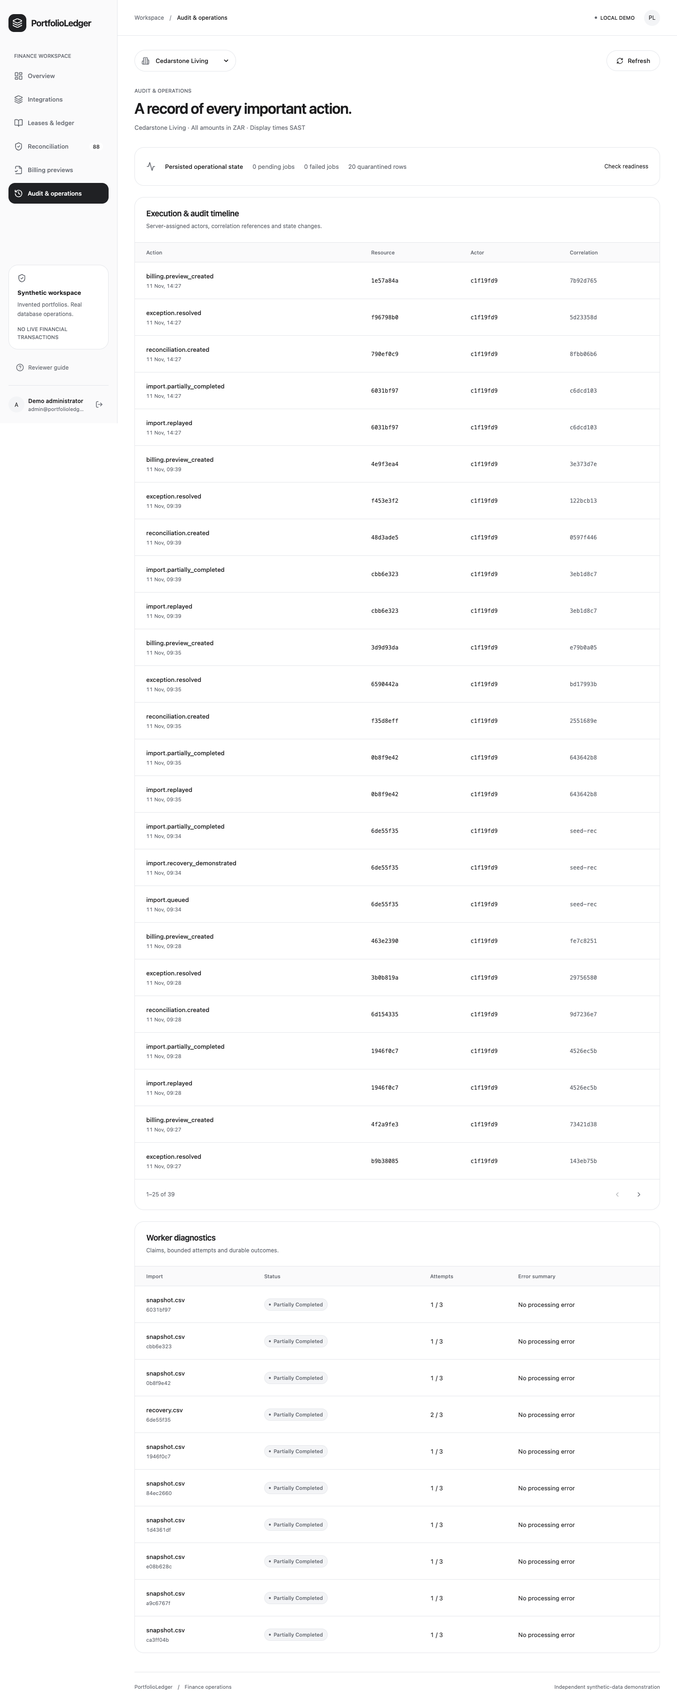
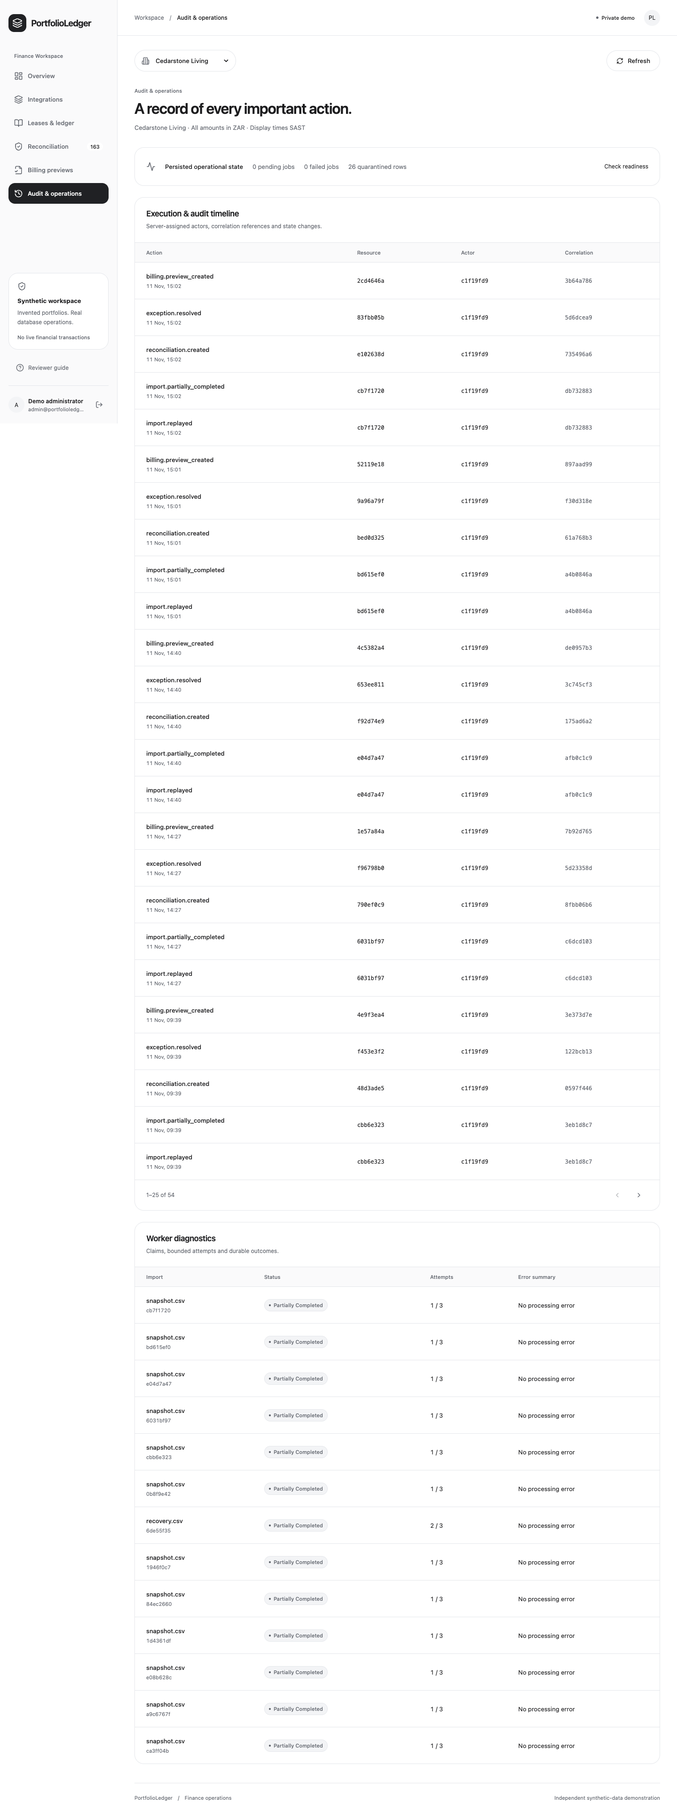
Close ownership and readiness gaps; record final release verification

diff --git a/frontend/tests/public-review.public.ts b/frontend/tests/public-review.public.ts
@@ -7,10 +7,13 @@ async function closeWithEscape(page: import("@playwright/test").Page) {
   await expect(page.getByRole("dialog")).toHaveCount(0);
 }
 
+test.use({ viewport: { width: 1440, height: 900 } });
+
 test("public reviewer browses evidence and CSV with all direct business writes denied", async ({
   page,
 }) => {
   await page.goto("/");
+  expect((await page.request.get("/ready")).status()).toBe(200);
   await page.getByRole("button", { name: "Explore read-only demo" }).click();
   await expect(page.getByLabel("Select portfolio")).toBeVisible();
   const portfolios = await page.request.get("/api/portfolios");
@@ -100,6 +103,19 @@ test("public reviewer browses evidence and CSV with all direct business writes d
   await expect(
     page.getByRole("heading", { name: "Execution & audit timeline" }),
   ).toBeVisible();
+  await expect(
+    page.getByRole("button", { name: "Refresh", exact: true }),
+  ).toBeEnabled();
+  await expect(
+    page
+      .locator(".panel")
+      .filter({
+        has: page.getByRole("heading", { name: "Execution & audit timeline" }),
+      })
+      .locator("tbody tr")
+      .first(),
+  ).toBeVisible();
+  await page.evaluate(() => window.scrollTo(0, 0));
   await page.screenshot({
     path: "../docs/evidence/ui/after/public-review-audit.png",
     fullPage: true,

diff --git a/frontend/tests/journey.spec.ts b/frontend/tests/journey.spec.ts
@@ -76,6 +76,12 @@ test("reviewer completes persisted import, evidence, review and billing journey"
   await expect(page.locator("tbody").first()).toContainText(
     "billing.preview_created",
   );
+  await page.getByRole("button", { name: "Check readiness" }).click();
+  await expect(
+    page.getByRole("dialog", { name: "Readiness check" }),
+  ).toContainText("Database ready");
+  await expect(page.getByRole("dialog")).toContainText("b003");
+  await page.getByRole("button", { name: "Close dialog" }).click();
   await page
     .getByLabel("Select portfolio")
     .selectOption({ label: "Harbourlight Estates" });

diff --git a/frontend/src/styles.css b/frontend/src/styles.css
@@ -141,6 +141,7 @@ nav {
   gap: 6px;
 }
 nav button {
+  transition: none;
   display: flex;
   align-items: center;
   text-align: left;

diff --git a/backend/tests/test_release.py b/backend/tests/test_release.py
@@ -257,7 +257,9 @@ def test_production_configuration_and_owner_readiness(client: TestClient, monkey
         public_review_enabled=True,
         public_demo_read_only=True,
     )
-    assert Settings(_env_file=None, **valid).cookie_secure
+    valid_settings = Settings(_env_file=None, **valid)
+    assert valid_settings.cookie_secure
+    assert "synthetic-test-password-only" not in repr(valid_settings)
     for change in [
         dict(cookie_secure=False),
         dict(allowed_origins=["http://demo.example.invalid"]),
@@ -384,7 +386,12 @@ def test_separate_runtime_roles_complete_financial_journey(
             )
             monkeypatch.setattr(settings, "app_env", "production")
             assert client.get("/ready").status_code == 200
+            with owner.begin() as connection:
+                connection.execute(text(f'ALTER SCHEMA "{schema}" OWNER TO "{api_role}"'))
+            assert client.get("/ready").status_code == 503
     finally:
+        with owner.begin() as connection:
+            connection.execute(text(f'ALTER SCHEMA "{schema}" OWNER TO CURRENT_USER'))
         for engine in engines:
             engine.dispose()
         with owner.begin() as connection:
@@ -408,3 +415,37 @@ def test_public_scope_rechecked_after_session(
         portfolio.synthetic_demo = False
     assert client.get("/api/portfolios").json() == []
     assert client.get(f"/api/portfolios/{demo['a']}/overview").status_code == 404
+
+
+def test_runtime_grants_reject_schema_owner(
+    factory: sessionmaker[Session], demo: dict[str, Any]
+) -> None:
+    from uuid import uuid4
+
+    import pytest
+
+    from app.operations.roles import grant_runtime
+
+    api_role, worker_role = "test_api_" + uuid4().hex, "test_worker_" + uuid4().hex
+    engine = factory.kw["bind"]
+    with engine.begin() as connection:
+        schema = connection.scalar(text("SELECT current_schema()"))
+        for role in (api_role, worker_role):
+            connection.execute(
+                text(
+                    f'CREATE ROLE "{role}" NOLOGIN NOSUPERUSER NOCREATEDB NOCREATEROLE NOINHERIT NOBYPASSRLS'
+                )
+            )
+        connection.execute(text(f'ALTER SCHEMA "{schema}" OWNER TO "{api_role}"'))
+    try:
+        with (
+            pytest.raises(ValueError, match="own the database or schema"),
+            engine.begin() as connection,
+        ):
+            grant_runtime(connection.connection.driver_connection, schema, api_role, worker_role)
+    finally:
+        with engine.begin() as connection:
+            connection.execute(text(f'ALTER SCHEMA "{schema}" OWNER TO CURRENT_USER'))
+            for role in (api_role, worker_role):
+                connection.execute(text(f'DROP OWNED BY "{role}"'))
+                connection.execute(text(f'DROP ROLE "{role}"'))

diff --git a/backend/app/core/config.py b/backend/app/core/config.py
@@ -3,22 +3,26 @@ from pathlib import Path
 from typing import Literal, Self
 from urllib.parse import urlsplit
 
-from pydantic import model_validator
+from pydantic import Field, model_validator
 from pydantic_settings import BaseSettings, SettingsConfigDict
 from sqlalchemy.engine import make_url
 
 
 class Settings(BaseSettings):
     model_config = SettingsConfigDict(
-        env_file=Path(__file__).resolve().parents[3] / ".env", extra="ignore"
+        env_file=Path(__file__).resolve().parents[3] / ".env",
+        extra="ignore",
+        hide_input_in_errors=True,
     )
-    database_url: str = "postgresql+psycopg://ledger:ledger_local@localhost:5438/ledger"
+    database_url: str = Field(
+        default="postgresql+psycopg://ledger:ledger_local@localhost:5438/ledger", repr=False
+    )
     app_env: Literal["development", "test", "production"] = "development"
     cookie_secure: bool = False
     allowed_origins: list[str] = ["http://localhost:5173", "http://127.0.0.1:5173"]
     allowed_hosts: list[str] = ["localhost", "127.0.0.1", "testserver"]
     trusted_proxy_ips: list[str] = []
-    demo_password: str = ""
+    demo_password: str = Field(default="", repr=False)
     public_review_enabled: bool = False
     public_demo_read_only: bool = False
     seed_synthetic_demo: bool = False
@@ -55,6 +59,8 @@ class Settings(BaseSettings):
                 raise ValueError("unbounded proxy trust forbidden")
         if (
             url.get_backend_name() != "postgresql"
+            or not url.username
+            or not url.host
             or not url.password
             or len(url.password) < 20
             or url.username in {"ledger", "postgres"}

diff --git a/backend/app/main.py b/backend/app/main.py
@@ -223,7 +223,12 @@ def ready(db: Session = Depends(get_db, scope="function")) -> dict[str, str]:
                 "SELECT count(*) FROM pg_tables WHERE schemaname = current_schema() AND pg_has_role(current_user, tableowner, 'MEMBER')"
             )
         )
-        if privileged or owner:
+        namespace_owner = db.scalar(
+            text(
+                "SELECT pg_has_role(current_user, nspowner, 'MEMBER') OR pg_has_role(current_user, datdba, 'MEMBER') FROM pg_namespace CROSS JOIN pg_database WHERE nspname=current_schema() AND datname=current_database()"
+            )
+        )
+        if privileged or owner or namespace_owner:
             raise HTTPException(503, "runtime_role_is_privileged")
     return {"status": "ready", "schema": ",".join(sorted(versions))}
 

diff --git a/backend/app/operations/roles.py b/backend/app/operations/roles.py
@@ -47,6 +47,12 @@ def grant_runtime(
         ).fetchone()
         if membership and membership[0] != 0:
             raise ValueError("runtime roles must not inherit other roles")
+        ownership = connection.execute(
+            "SELECT pg_has_role(%s, nspowner, 'MEMBER') OR pg_has_role(%s, datdba, 'MEMBER') FROM pg_namespace CROSS JOIN pg_database WHERE nspname=%s AND datname=current_database()",
+            (role, role, schema),
+        ).fetchone()
+        if ownership is None or ownership[0]:
+            raise ValueError("runtime roles must not own the database or schema")
         owners = connection.execute(
             "SELECT count(*) FROM pg_tables WHERE schemaname=%s AND tableowner=%s", (schema, role)
         ).fetchone()

diff --git a/docs/engineering-journal.md b/docs/engineering-journal.md
@@ -121,3 +121,33 @@ Public Chrome case first timed out because Escape fired before asynchronous repo
 ## 2026-11-11 12:54:28 UTC — Public reviewer accepted
 
 Third public-test rerun reached Audit and found a test-only heading typo (omitted ampersand in existing Execution & audit timeline). Corrected locator without changing product copy/assertions. Final public Chrome case: 1 passed in 4.2s (2.5s case). Password-free reviewer inspected reports, ledger source evidence, exceptions, preview CSV and audit; direct upload/replay/reconciliation/review/preview calls all 403. Business-ID/ledger comparison unchanged; sanitized public-review.json and credential-free public-review-audit screenshot saved. Production Nginx configuration tested inside actual non-root image: syntax successful (entrypoint read-only-config notice expected). Final candidate credential scan passed. Saving implementation increment before restart/final evidence increment.
+
+## 2026-11-11 12:58:27 UTC — Restart accepted; final ownership regression
+
+Implementation increment committed as 7ed81c6. Complete Compose down/up (no volume removal) passed exact-ID/ledger comparison: 9 postings, 3 leases, 8 previews/15 lines, 48 audits, 119 exceptions, 12 jobs; ZAR 19,500.00. Sanitized persistence-release.json saved.
+
+Final privilege review identified schema ownership as a second DDL bypass path despite non-ownership of individual tables. Added reproducer: 1 failed in 0.50s (expected owner-rejection exception did not occur). Role setup and production readiness now check database/schema ownership and membership as well as table ownership/role flags. Existing separate-role financial journey now also asserts readiness becomes 503 if runtime role is temporarily assigned schema ownership, then restores ownership in test cleanup. Configuration repr/errors now redact secret fields and production rejects socket/unnamed DB identities. Full suite/static rerun pending. No finance/schema/worker logic changed in this correction.
+
+## 2026-11-11 12:59:20 UTC — Ownership correction green
+
+Full PostgreSQL suite: 41 passed / 35.88s / 85% / one upstream warning. Schema-owner reproducer now passes, ordinary separate-runtime financial journey stays green, production readiness rejects schema ownership. All static/type/build/style checks pass. No finance logic, source identity, worker processing or Alembic schema changed after the accepted 10k run; no benchmark rerun asserted. Final images rebuilding before browser/capture verification.
+
+## 2026-11-11 13:02:58 UTC — Final visual/accessibility correction
+
+Public case rerun against final rebuilt backend: 1 passed in 5.5s; stricter screenshot waits now require the real audit rows loaded and scroll to page top. Manual review had caught an earlier public capture before audit data finished loading; replacement is required, not claimed accepted.
+
+Private final browser rerun: 5 passed / 1 failed, 19.0s. Axe caught Integrations navigation at intermediate transition colors (contrast 1.12/2.23 while text/background swapped). Removed only navigation color transitions so selected background/text switch together; unchanged axe assertions and full journey rerunning. This is a genuine transient style defect, not a reason to disable contrast checking or introduce test sleeps.
+
+## 2026-11-11 13:07:13 UTC — Final local acceptance and reviewed captures
+
+D023 corrected: full private Chrome suite 6 passed in 19.2s; unchanged axe contrast checks pass login and all six operational views, responsive 36 combinations and all finance assertions retained. Final public Chrome 1 passed in 4.2s; exact business-ID/ledger comparison unchanged (9 postings, 3 leases, 10 previews/19 lines, 58 audits, 173 exceptions, 14 jobs, ZAR 19,500.00). Private runs legitimately added review/import/preview history between public/restart measurement boundaries; no data reset. Returned stack to private mode.
+
+Final screenshot helper initially captured images but failed logout because standalone browser request context lacked a base URL. Added explicit loopback base URL and finally-close; complete rerun exited 0 (Captured after synthetic UI screenshots), including session revocation. Refreshed all six screens plus login, ledger, source modal, tablet/mobile. Actually viewed final overview/mobile/tablet/login/integrations/leases/modal/reconciliation/billing and public Audit; all neutral/rounded/legible, no clipped document or credentials. Public Audit now contains actual loaded rows and sidebar starts at top; screenshots accepted.
+
+Final static/type/build/style and credential/artifact checks passed at this checkpoint (latest final command completion recorded before commit). No new backend business/schema/worker change after accepted 10k run. Local backup/restore and full named-volume restart have genuine evidence. Hosted candidate CI, HTTPS deployment, hosted TLS DB/backup/alerting remain unverified; public release NO-GO. Implementation and local acceptance complete; branch publication remains conditional on owner authorization per supplied phase 5.
+
+## 2026-11-11 13:11:01 UTC — Browser-facing readiness corrected and final candidate saved
+
+Final endpoint audit found real `/ready` through Nginx returned 400 despite direct API health: that location omitted browser Host, so strict TrustedHost rejected internal upstream hostname. Kept host enforcement and forwarded original Host/protocol in both local/production readiness locations. Added actual readiness-dialog assertion to original journey and same-origin readiness assertion to public test. Production Nginx syntax passes in actual non-root image; curl via frontend now 200 with b003. Private full suite **6 passed / 33.1s**, public **1 passed / 9.9s**, including all existing financial/axe assertions. Public exact business-ID/ledger comparison passed again; private reviewer actions between checkpoints account for 11 previews/21 lines, 63 audits, 203 exceptions and 15 jobs (ledger still 9 / ZAR 19,500.00).
+
+Returned private mode. Immediate curl during API recreation briefly returned 502 before health startup; subsequent explicit readiness check returned ready/b003 and auth options public_review_enabled=false. No steady-state failure or uptime claim inferred. Final static/type/build/style and credential/artifact scans passed; git diff whitespace clean. All current implementation/evidence files are being saved as a second meaningful increment. No push, new PR, candidate hosted CI or cloud deployment performed; those remain conditional release gates.

diff --git a/docs/release-candidate.md b/docs/release-candidate.md
@@ -1,0 +1,17 @@
+# Iteration 005/006 release candidate
+
+Implementation/local acceptance complete. **Public deployment NO-GO** pending owner-authorized branch publication/inspected candidate CI, actual HTTPS ingress, verified-TLS PostgreSQL runtime secrets, hosted backup/restore and alerting. No cloud resources or public app URL claimed.
+
+Branch: `codex/portfolio-ledger-release-ui-v2`. Starting SHA `3a605a0b130a9ece50b9308cef198573b85383b8`, 14 inherited dirty files preserved. Implementation increment `7ed81c6`; final evidence/ownership correction is the subsequent commit (`git log -1`). No push/PR/hosted candidate CI yet. Prior build PR #1 was already merged before this iteration.
+
+Verified: neutral UI/login/shared primitives, source registry and historical migration, direct public mutation denial/synthetic scope, bounded secure sessions/CSRF/origins/Host/proxy controls, fail-closed production config, dynamic readiness with database/schema/table-owner rejection, explicit release migrations, non-root restricted containers, distinct runtime-role financial journey, local backup/restore and restart. Generated response DTOs, parser fuzz campaign, OS-image scans, isolated public writable review and hosted infrastructure remain deferred.
+
+Evidence: [validation](validation.md), [design + all screenshots](iterations/005-design-system-and-navigation.md), [security](iterations/006-release-security.md), [10k JSON](evidence/acceptance-release-ui.json), [restore](evidence/backup-restore.json), [restart](evidence/persistence-release.json), [public review](evidence/public-review.json).
+
+Actual verification: 41 backend tests / 35.88s / 85% / one upstream deprecation warning; six private Chrome cases / 33.1s and one public / 9.9s. Includes 36 screen/viewport combinations and selected WCAG A/AA/2.1 AA audits. Static/type/build/style guards pass. Dependency scanners find no known vulnerabilities (unpublished project package cannot be looked up on PyPI). Alembic metadata check clean. Production Compose rejects missing configuration and validates synthetic placeholders; actual hosted TLS is not tested.
+
+10k import/replay: 190.983s / 82.724s, full 275.891s; 10,000 postings / ZAR 18,750,000.00 retained, two quarantines per receipt, no replay inflation. Dirty base 3a605a0 with concurrent work on Apple M5/16 GiB; no speedup claim. Full local restore matches 13 business table hashes and evidence triggers; restart preserves captured IDs and ZAR 19,500.00 local total.
+
+Run `python3 scripts/init_env.py` then `docker compose up --build -d`, open http://localhost:5173, private DEMO_PASSWORD from `.env`, November 2026. Admin/analyst interactive; reviewer@portfolioledger.test read only. Password-free public testing and exact deployment/role commands are in [deployment](deployment.md). Final local stack is private mode.
+
+Next owner action: authorize pushing this reviewed branch and opening a draft PR so candidate Actions can run. The supplied phase 5 explicitly makes pushing conditional on authorization. Review visuals before merge; do not deploy until hosted gates pass.

diff --git a/docs/architecture.md b/docs/architecture.md
@@ -20,6 +20,7 @@ Core boundaries: `integrations` translates fictional provider formats; `domain` 
 ## Relational summary
 
 - users, sessions, portfolio_access: identity and explicit grants.
+- integration_sources: operator-owned portfolio/provider/upstream identities; enabled source selection and composite receipt FK.
 - portfolios, units, tenants, leases: fictional scoped business identities.
 - lease_versions: immutable source-backed normalized terms, revisioned per lease.
 - pricing_versions: immutable effective-dated service-fee settings.
@@ -31,11 +32,11 @@ Core boundaries: `integrations` translates fictional provider formats; `domain` 
 - audit_events: append-only business actions with actor/correlation/details.
 - rate_windows: database-backed fixed-window request budgets.
 
-UUIDs are stored as bounded strings; composite foreign keys enforce portfolio ownership for source/lease/ledger/preview lineage. Source identity is `(portfolio, source_key, external_id)`; keep source keys stable. One configured adapter per portfolio is intentionally embedded in the portfolio model. No speculative integration-settings service or external provider connection exists.
+UUIDs are stored as bounded strings; composite foreign keys enforce portfolio ownership for source/lease/ledger/preview lineage. Source identity is `(portfolio, source_key, external_id)`; source keys must come from the enabled registry. Its unique upstream identity prevents aliases for one authorized account. One adapter per portfolio remains embedded in the portfolio model; no real external provider connection exists.
 
 ## Schema evolution
 
-Alembic revision `aacf7692e44e` creates the initial schema; `b001` adds database immutability triggers; `b002` hardens pricing ownership, event uniqueness and state/revision checks. Future changes add revisions; never modify applied migration history. Tests create unique temporary schemas and run the actual migration chain. No application `create_all()` exists. Down migrations are for disposable test/development databases, not financial-data erasure. Run migrations as a release step before new workers/API start.
+Alembic revision `aacf7692e44e` creates the initial schema; `b001` adds database immutability triggers; `b002` hardens pricing ownership, event uniqueness and state/revision checks; `b003` registers historical source identities without rewriting financial evidence. Future changes add revisions; never modify applied migration history. Tests create unique temporary schemas and run the actual migration chain. No application `create_all()` exists. Down migrations are for disposable test/development databases, not financial-data erasure. Run migrations as a release step before new workers/API start.
 
 ## Transaction and snapshot boundaries
 

diff --git a/docs/defects.md b/docs/defects.md
@@ -46,3 +46,19 @@ First pg_restore into a new disposable database exited 1 because its default pub
 ## D021 — Public-browser dialog synchronization
 
 First public case timed out navigating behind an asynchronously opened import modal: Escape had fired before open. Second rerun reached evidence/CSV and all direct-write denial assertions but incorrectly expected Close to remain focused after clicking Download. Helper now waits for dialog, focuses Close, sends Escape and asserts disappearance. Original finance assertions retained; independent design test still checks automatic focus/restoration. Public business-record comparison remained unchanged. Final public rerun recorded in journal.
+
+## D022 — Runtime schema ownership overlooked by privilege guard
+
+Final review found role setup/readiness checked table ownership and role flags but not schema/database ownership. A schema owner can drop its schema even without owning individual evidence tables. New actual reproducer failed (1 failed / 0.50s: missing ValueError). Added explicit database/schema membership/ownership rejection and a readiness probe that temporarily assigns isolated schema ownership to runtime role, expects 503, then restores it. Full green verification recorded in journal.
+
+## D023 — Intermediate navigation transition fails contrast
+
+Faster final Chrome run produced 5 passes/1 failure (19.0s): unchanged axe audit observed selected/unselected nav mid-transition with contrast 1.12/2.23. Removed nav transitions so background/text change atomically. The complete automated audit remains enabled; final rerun recorded in journal. Manual screenshot QA also required waiting for actual Audit rows and returning scroll to top before replacing the public-review image.
+
+## D024 — Standalone screenshot session cleanup URL
+
+After successfully writing screenshots, capture helper failed its new logout request with Invalid URL because standalone browser context had no base URL. Added explicit loopback base URL and guaranteed browser close in finally. Complete rerun exited 0 and revoked its session. This was capture tooling, not product authentication or financial persistence.
+
+## D025 — Readiness proxy omitted Host under strict trusted-host enforcement
+
+Actual frontend `/ready` returned 400 while direct API was healthy. Nginx forwarded its internal upstream Host only on this location. Both local and production configs now forward the original browser Host/protocol, retaining strict trusted-host policy. Original Chrome journey now verifies the real readiness dialog; public case asserts same-origin readiness HTTP 200. Corrected route returns ready/b003; final private/public suites pass (33.1s / 9.9s).

diff --git a/docs/validation.md b/docs/validation.md
@@ -83,3 +83,9 @@ Manual visual review: actual before overview/login and after login, overview, in
 Hosted candidate CI, public HTTPS release and cloud restore remain unverified; public release is NO-GO pending those gates.
 
 Final backend expansion: **40 passed / 18.34s / 85%**, including synthetic-scope revocation after public login. Public Chrome check initially exposed two dialog-test timing/focus assumptions and an existing heading locator typo; after corrections **1 passed / 4.2s**. All five business mutation APIs returned 403 and before/after business IDs/ledger total matched: [public review evidence](evidence/public-review.json). Nginx production syntax passed in actual non-root image; production Compose refuses missing values and validates with synthetic placeholders. Alembic check reports no pending upgrade operations. Runtime IDs verified 10001/10001/101.
+
+Final D022 ownership correction: actual new red reproducer **1 failed / 0.50s**. Role setup and readiness now reject database/schema owners and memberships as well as table owners and privileged flags. Complete suite **41 passed / 35.88s / 85%**, one upstream warning. Static/type/build/style checks pass. Full stop/start exact business-ID and ledger comparison passed: [release persistence](evidence/persistence-release.json). No financial/schema/worker processing change followed the accepted 10k run.
+
+Final rendered candidate after D023: **6 private Chrome cases passed / 19.2s**, unchanged axe checks included; **1 public Chrome case passed / 4.2s**. New public evidence again confirms exact business-ID/total equality, with legitimate additional private-review history between checkpoints. All final captures refreshed and visually inspected; public Audit waits for real rows and scrolls to top. Standalone capture cleanup initially failed after images because request base URL was absent; explicit base URL/finally-close corrected it, final complete capture exited 0. Stack restored to private mode. All final static/type/build/style and credential/artifact checks pass.
+
+Latest final route acceptance (D025): browser-facing readiness initially 400 from missing forwarded Host; corrected local/production Nginx routes preserve strict host validation. Actual readiness now HTTP 200 / b003; production syntax check passes. Original journey expanded to open/assert readiness dialog; public case checks same-origin readiness. **Six private Chrome cases pass / 33.1s; one public passes / 9.9s**. Public business-ID/ledger comparison remains equal. Final stack healthy/private; brief 502 during API recreation cleared on subsequent readiness check. These are latest results; earlier timings remain historical checkpoints.
